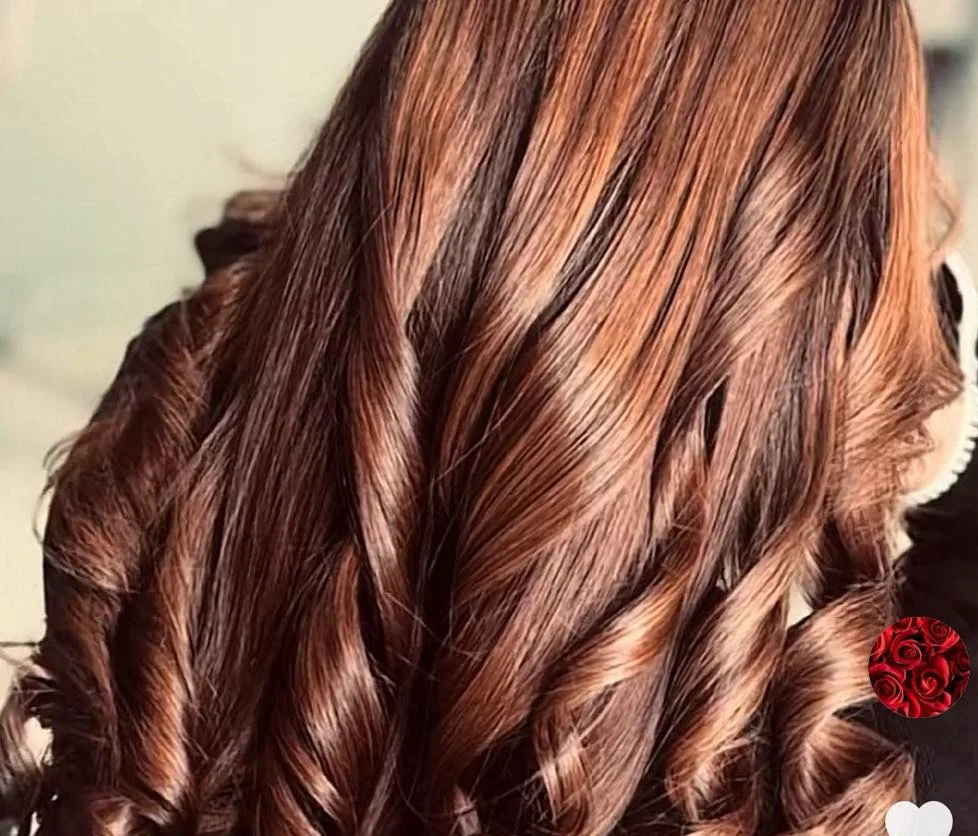
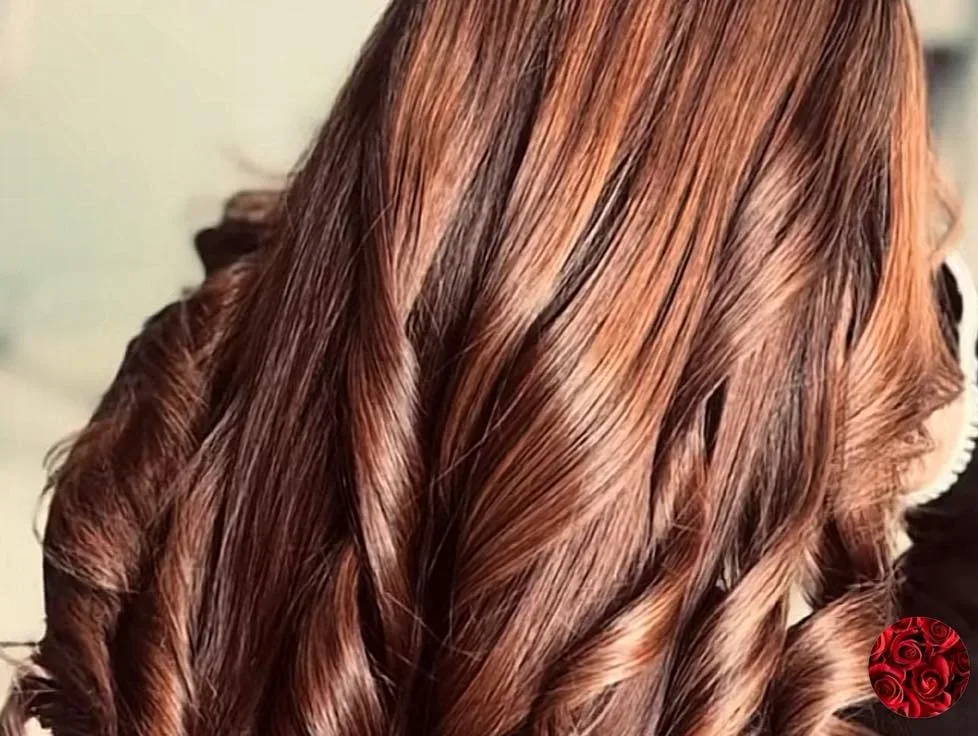
Visual polish: hero spacing, reviews cleanup, grid fix, footer slim
1. Hero: reduce top spacing (items-start + pt-28), content starts
   at ~25% viewport instead of ~45%
2. Reviews: remove letter avatars, show stars→quote→name/service;
   add min-h-[200px] to prevent layout shift during hydration
3. Gallery: re-crop gallery-6 image, remove remaining IG overlay
4. Services: switch from row-span stretch to equal 2-col grid
   with uniform aspect-[4/3] images — no more uneven card heights
5. FAQ: shorten heading to "Frequently Asked Questions"
6. Footer: remove duplicate contact column, slim to logo + tagline,
   nav links, social icons, copyright, back-to-top

diff --git a/components/Footer.tsx b/components/Footer.tsx
@@ -8,98 +8,71 @@ export default function Footer() {
   };
 
   return (
-    <footer className="bg-charcoal pt-16 pb-8">
+    <footer className="bg-charcoal pt-12 pb-8">
       <div className="mx-auto max-w-7xl px-6 lg:px-8">
-        <div className="grid grid-cols-1 gap-12 md:grid-cols-3">
+        <div className="flex flex-col items-center gap-8 text-center sm:flex-row sm:items-start sm:justify-between sm:text-left">
           {/* Logo + tagline */}
-          <div>
+          <div className="max-w-xs">
             <a
               href="#"
               className="font-heading text-[22px] font-semibold tracking-[-0.01em] text-cream"
             >
               Stylin&apos;Chic
             </a>
-            <p className="mt-3 text-sm text-cream/50 leading-relaxed">
+            <p className="mt-2 text-[13px] text-cream/45 leading-relaxed">
               Pickering&apos;s premier destination for hair transformations.
-              Expert treatments, premium products, exceptional results.
             </p>
           </div>
 
-          {/* Navigation */}
-          <div>
-            <h4 className="mb-4 text-sm font-semibold uppercase tracking-wider text-cream/40">
-              Quick Links
-            </h4>
-            <nav className="flex flex-col gap-2">
-              {navLinks.map((link) => (
-                <a
-                  key={link.href}
-                  href={link.href}
-                  className="text-sm text-cream/60 transition-colors hover:text-cream"
-                >
-                  {link.label}
-                </a>
-              ))}
-            </nav>
-          </div>
-
-          {/* Contact */}
-          <div>
-            <h4 className="mb-4 text-sm font-semibold uppercase tracking-wider text-cream/40">
-              Contact
-            </h4>
-            <div className="space-y-2 text-sm text-cream/60">
-              <p>{contactInfo.email}</p>
-              <p>{contactInfo.phone}</p>
-              <p>{contactInfo.address}</p>
-            </div>
-
-            {/* Social */}
-            <div className="mt-6 flex gap-3">
+          {/* Nav links */}
+          <nav className="flex flex-wrap justify-center gap-x-6 gap-y-2 sm:justify-start">
+            {navLinks.map((link) => (
               <a
-                href={contactInfo.instagram}
-                target="_blank"
-                rel="noopener noreferrer"
-                className="flex h-9 w-9 items-center justify-center rounded-full border border-cream/15 text-cream/50 transition-colors hover:border-accent hover:text-accent"
-                aria-label="Instagram"
+                key={link.href}
+                href={link.href}
+                className="text-[13px] text-cream/55 transition-colors hover:text-cream"
               >
-                <svg
-                  className="h-4 w-4"
-                  fill="currentColor"
-                  viewBox="0 0 24 24"
-                >
-                  <path d="M12 2.163c3.204 0 3.584.012 4.85.07 3.252.148 4.771 1.691 4.919 4.919.058 1.265.069 1.645.069 4.849 0 3.205-.012 3.584-.069 4.849-.149 3.225-1.664 4.771-4.919 4.919-1.266.058-1.644.07-4.85.07-3.204 0-3.584-.012-4.849-.07-3.26-.149-4.771-1.699-4.919-4.92-.058-1.265-.07-1.644-.07-4.849 0-3.204.013-3.583.07-4.849.149-3.227 1.664-4.771 4.919-4.919 1.266-.057 1.645-.069 4.849-.069zM12 0C8.741 0 8.333.014 7.053.072 2.695.272.273 2.69.073 7.052.014 8.333 0 8.741 0 12c0 3.259.014 3.668.072 4.948.2 4.358 2.618 6.78 6.98 6.98C8.333 23.986 8.741 24 12 24c3.259 0 3.668-.014 4.948-.072 4.354-.2 6.782-2.618 6.979-6.98.059-1.28.073-1.689.073-4.948 0-3.259-.014-3.667-.072-4.947-.196-4.354-2.617-6.78-6.979-6.98C15.668.014 15.259 0 12 0zm0 5.838a6.162 6.162 0 100 12.324 6.162 6.162 0 000-12.324zM12 16a4 4 0 110-8 4 4 0 010 8zm6.406-11.845a1.44 1.44 0 100 2.881 1.44 1.44 0 000-2.881z" />
-                </svg>
+                {link.label}
               </a>
-              <a
-                href={contactInfo.facebook}
-                target="_blank"
-                rel="noopener noreferrer"
-                className="flex h-9 w-9 items-center justify-center rounded-full border border-cream/15 text-cream/50 transition-colors hover:border-accent hover:text-accent"
-                aria-label="Facebook"
-              >
-                <svg
-                  className="h-4 w-4"
-                  fill="currentColor"
-                  viewBox="0 0 24 24"
-                >
-                  <path d="M24 12.073c0-6.627-5.373-12-12-12s-12 5.373-12 12c0 5.99 4.388 10.954 10.125 11.854v-8.385H7.078v-3.47h3.047V9.43c0-3.007 1.792-4.669 4.533-4.669 1.312 0 2.686.235 2.686.235v2.953H15.83c-1.491 0-1.956.925-1.956 1.874v2.25h3.328l-.532 3.47h-2.796v8.385C19.612 23.027 24 18.062 24 12.073z" />
-                </svg>
-              </a>
-            </div>
+            ))}
+          </nav>
+
+          {/* Social icons */}
+          <div className="flex gap-3">
+            <a
+              href={contactInfo.instagram}
+              target="_blank"
+              rel="noopener noreferrer"
+              className="flex h-9 w-9 items-center justify-center rounded-full border border-cream/15 text-cream/50 transition-colors hover:border-accent hover:text-accent"
+              aria-label="Instagram"
+            >
+              <svg className="h-4 w-4" fill="currentColor" viewBox="0 0 24 24">
+                <path d="M12 2.163c3.204 0 3.584.012 4.85.07 3.252.148 4.771 1.691 4.919 4.919.058 1.265.069 1.645.069 4.849 0 3.205-.012 3.584-.069 4.849-.149 3.225-1.664 4.771-4.919 4.919-1.266.058-1.644.07-4.85.07-3.204 0-3.584-.012-4.849-.07-3.26-.149-4.771-1.699-4.919-4.92-.058-1.265-.07-1.644-.07-4.849 0-3.204.013-3.583.07-4.849.149-3.227 1.664-4.771 4.919-4.919 1.266-.057 1.645-.069 4.849-.069zM12 0C8.741 0 8.333.014 7.053.072 2.695.272.273 2.69.073 7.052.014 8.333 0 8.741 0 12c0 3.259.014 3.668.072 4.948.2 4.358 2.618 6.78 6.98 6.98C8.333 23.986 8.741 24 12 24c3.259 0 3.668-.014 4.948-.072 4.354-.2 6.782-2.618 6.979-6.98.059-1.28.073-1.689.073-4.948 0-3.259-.014-3.667-.072-4.947-.196-4.354-2.617-6.78-6.979-6.98C15.668.014 15.259 0 12 0zm0 5.838a6.162 6.162 0 100 12.324 6.162 6.162 0 000-12.324zM12 16a4 4 0 110-8 4 4 0 010 8zm6.406-11.845a1.44 1.44 0 100 2.881 1.44 1.44 0 000-2.881z" />
+              </svg>
+            </a>
+            <a
+              href={contactInfo.facebook}
+              target="_blank"
+              rel="noopener noreferrer"
+              className="flex h-9 w-9 items-center justify-center rounded-full border border-cream/15 text-cream/50 transition-colors hover:border-accent hover:text-accent"
+              aria-label="Facebook"
+            >
+              <svg className="h-4 w-4" fill="currentColor" viewBox="0 0 24 24">
+                <path d="M24 12.073c0-6.627-5.373-12-12-12s-12 5.373-12 12c0 5.99 4.388 10.954 10.125 11.854v-8.385H7.078v-3.47h3.047V9.43c0-3.007 1.792-4.669 4.533-4.669 1.312 0 2.686.235 2.686.235v2.953H15.83c-1.491 0-1.956.925-1.956 1.874v2.25h3.328l-.532 3.47h-2.796v8.385C19.612 23.027 24 18.062 24 12.073z" />
+              </svg>
+            </a>
           </div>
         </div>
 
         {/* Bottom bar */}
-        <div className="mt-12 flex flex-col items-center justify-between gap-4 border-t border-cream/10 pt-8 sm:flex-row">
-          <p className="text-xs text-cream/40">
+        <div className="mt-10 flex flex-col items-center justify-between gap-4 border-t border-cream/10 pt-6 sm:flex-row">
+          <p className="text-[12px] text-cream/35">
             &copy; 2026 Stylin&apos;Chic. All rights reserved.
           </p>
 
-          {/* Back to top */}
           <button
             onClick={scrollToTop}
-            className="flex h-10 w-10 items-center justify-center rounded-full border border-cream/15 text-cream/40 transition-colors hover:border-accent hover:text-accent cursor-pointer"
+            className="flex h-9 w-9 items-center justify-center rounded-full border border-cream/15 text-cream/35 transition-colors hover:border-accent hover:text-accent cursor-pointer"
             aria-label="Back to top"
           >
             <svg

diff --git a/lib/data.ts b/lib/data.ts
@@ -262,7 +262,7 @@ export const images = {
[7 lines of base64/hex data omitted]
   ] as ImageData[],

diff --git a/components/Services.tsx b/components/Services.tsx
@@ -12,27 +12,18 @@ export default function Services() {
       <div className="mx-auto max-w-7xl px-6 lg:px-8">
         <SectionHeader title="Our Signature Services" />
 
-        <div className="grid grid-cols-1 gap-6 md:grid-cols-2 lg:grid-rows-2">
+        {/* Bento grid — left card uses auto height, not row-span stretch */}
+        <div className="grid grid-cols-1 gap-6 md:grid-cols-2">
           {services.map((service, i) => {
             const img = images.services[i];
             return (
-              <AnimatedReveal
-                key={service.title}
-                delay={i * 0.1}
-                className={i === 0 ? "lg:row-span-2" : ""}
-              >
+              <AnimatedReveal key={service.title} delay={i * 0.1}>
                 <motion.div
-                  className={`group relative overflow-hidden rounded-3xl bg-cream p-8 transition-shadow duration-300 hover:shadow-xl ${
-                    i === 0 ? "h-full" : ""
-                  }`}
+                  className="group relative overflow-hidden rounded-3xl bg-cream p-8 transition-shadow duration-300 hover:shadow-xl"
                   whileHover={{ y: -2 }}
                   transition={{ type: "spring", stiffness: 300, damping: 20 }}
                 >
-                  <div
-                    className={`mb-6 overflow-hidden rounded-2xl ${
-                      i === 0 ? "aspect-[4/3]" : "aspect-[16/9]"
-                    }`}
-                  >
+                  <div className="mb-6 aspect-[4/3] overflow-hidden rounded-2xl">
                     <motion.div
                       className="h-full w-full"
                       whileHover={{ scale: 1.05 }}
@@ -85,7 +76,7 @@ export default function Services() {
           })}
         </div>
 
-        {/* Differentiator badges — merged from Why Choose Us */}
+        {/* Differentiator badges */}
         <AnimatedReveal className="mt-12">
           <div className="grid grid-cols-2 gap-3 sm:grid-cols-4">
             {differentiators.map((item, i) => (

diff --git a/components/Reviews.tsx b/components/Reviews.tsx
@@ -23,20 +23,15 @@ function StarRating({ rating }: { rating: number }) {
 
 function ReviewCard({ review }: { review: (typeof reviews)[0] }) {
   return (
-    <div className="w-[340px] shrink-0 rounded-2xl bg-cream p-6 shadow-sm">
-      <div className="flex items-center gap-3">
-        <div className="flex h-10 w-10 items-center justify-center rounded-full bg-accent/15 font-heading text-base font-semibold text-accent">
-          {review.name.charAt(0)}
-        </div>
-        <div>
-          <p className="text-[14px] font-medium text-espresso">{review.name}</p>
-          <p className="text-[12px] text-espresso/50">{review.service}</p>
-        </div>
-      </div>
+    <div className="w-[320px] shrink-0 rounded-2xl bg-cream p-5 shadow-sm">
       <StarRating rating={review.rating} />
       <p className="mt-3 text-[14px] leading-relaxed text-espresso/60">
         &ldquo;{review.quote}&rdquo;
       </p>
+      <div className="mt-4 border-t border-espresso/8 pt-3">
+        <p className="text-[14px] font-medium text-espresso">{review.name}</p>
+        <p className="text-[12px] text-espresso/45">{review.service}</p>
+      </div>
     </div>
   );
 }
@@ -50,7 +45,8 @@ export default function Reviews() {
         <SectionHeader title="Client Love" />
       </div>
 
-      <div className="group relative">
+      {/* Marquee — min-height prevents layout shift */}
+      <div className="group relative min-h-[200px]">
         <motion.div
           className="flex gap-6 px-6"
           animate={{ x: [0, -50 * reviews.length + "%"] }}

diff --git a/components/Hero.tsx b/components/Hero.tsx
@@ -11,9 +11,9 @@ export default function Hero() {
   return (
     <section
       id="hero"
-      className="relative flex min-h-screen items-center overflow-hidden bg-cream"
+      className="relative flex min-h-screen items-start overflow-hidden bg-cream pt-28 lg:pt-32"
     >
-      <div className="mx-auto grid max-w-7xl grid-cols-1 gap-8 px-6 py-32 lg:grid-cols-[1fr_1.2fr] lg:gap-12 lg:px-8">
+      <div className="mx-auto grid max-w-7xl grid-cols-1 gap-8 px-6 pb-20 lg:grid-cols-[1fr_1.2fr] lg:gap-12 lg:px-8">
         {/* Text content — left side */}
         <div className="flex flex-col justify-center">
           <motion.div
@@ -61,9 +61,9 @@ export default function Hero() {
           </motion.div>
         </div>
 
-        {/* Image area — right side */}
+        {/* Image area — right side, taller */}
         <motion.div
-          className="relative flex items-center justify-center"
+          className="relative flex items-start justify-center"
           initial={{ opacity: 0, scale: 0.95 }}
           animate={{ opacity: 1, scale: 1 }}
           transition={{ duration: 0.8, delay: 0.2 }}

diff --git a/components/FAQ.tsx b/components/FAQ.tsx
@@ -69,7 +69,7 @@ export default function FAQ() {
   return (
     <section className="bg-cream py-24 lg:py-32">
       <div className="mx-auto max-w-3xl px-6 lg:px-8">
-        <SectionHeader title="Answers to Your Most Common Questions" />
+        <SectionHeader title="Frequently Asked Questions" />
 
         <div>
           {faqs.map((faq, i) => (
